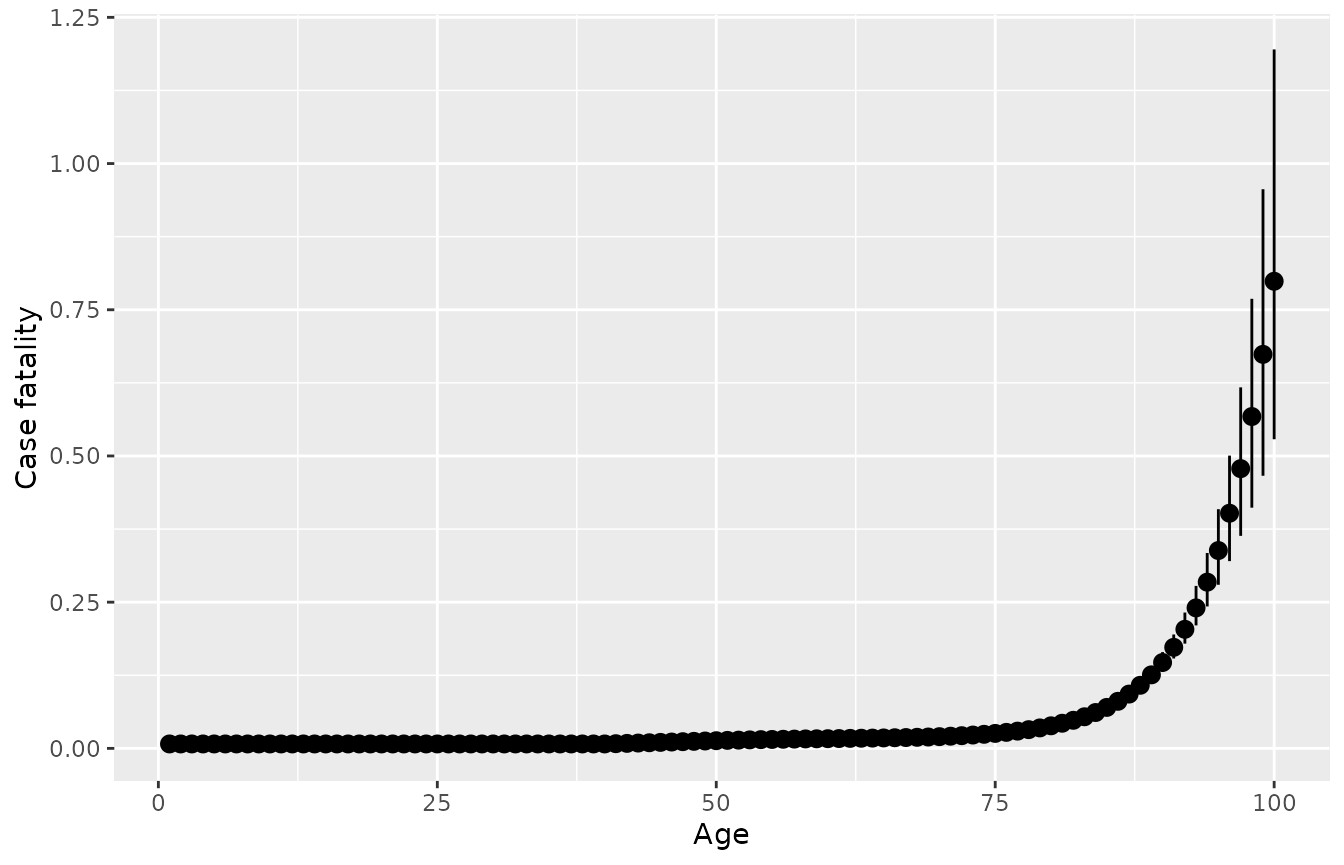
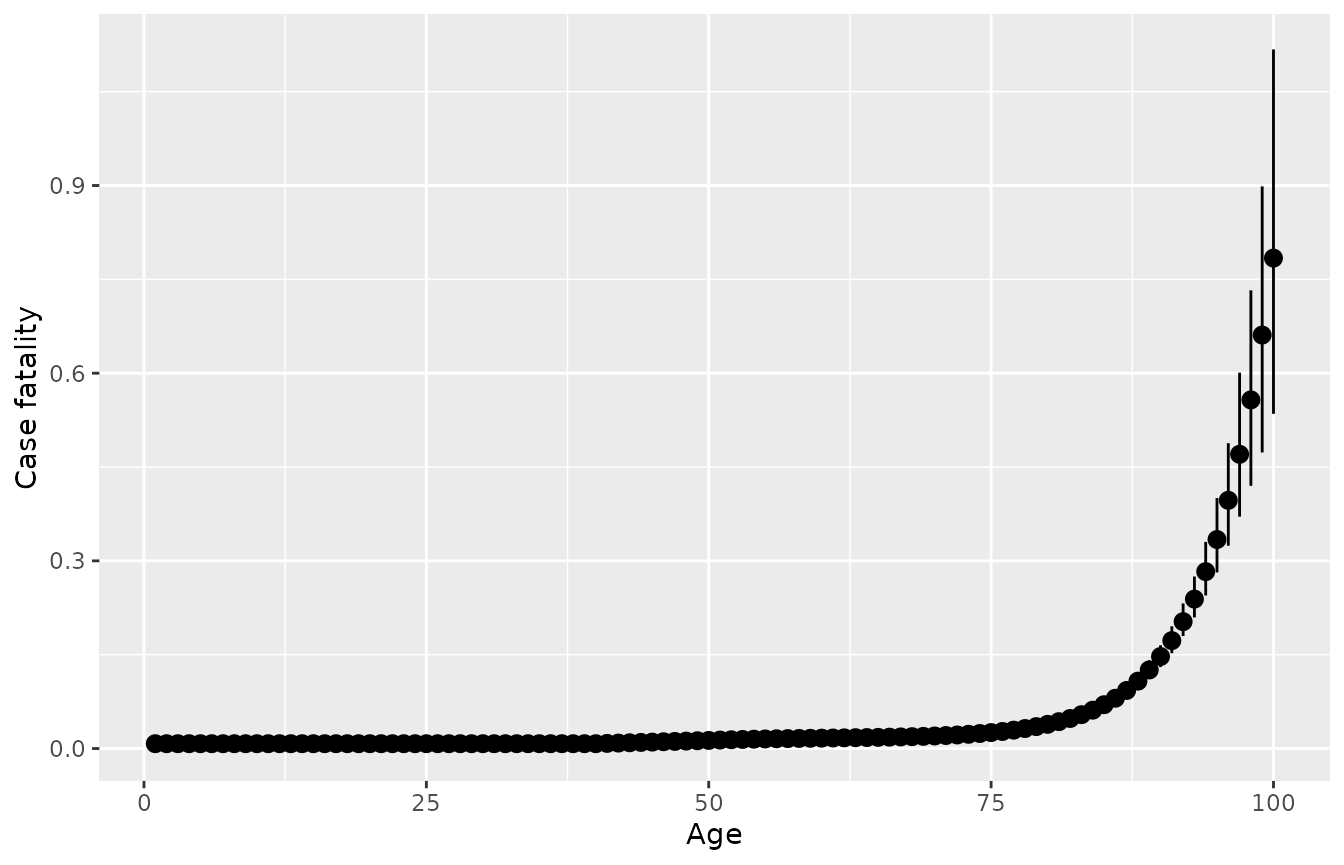
Built site for disbayes: 0.1@cc4fb94

diff --git a/articles/disbayes.html b/articles/disbayes.html
@@ -325,12 +325,12 @@
   <span class="fu"><a href="https://dplyr.tidyverse.org/reference/filter.html">filter</a></span><span class="op">(</span><span class="va">var</span><span class="op">==</span><span class="st">"cf"</span>, <span class="fu"><a href="https://dplyr.tidyverse.org/reference/between.html">between</a></span><span class="op">(</span><span class="va">age</span>,<span class="fl">60</span>,<span class="fl">65</span><span class="op">)</span><span class="op">)</span> <span class="op">%&gt;%</span>
   <span class="fu"><a href="https://dplyr.tidyverse.org/reference/select.html">select</a></span><span class="op">(</span><span class="va">age</span>, <span class="va">`25%`</span>, <span class="va">`50%`</span>, <span class="va">`75%`</span><span class="op">)</span></code></pre></div>
 <pre><code>##   age        25%        50%        75%
-## 1  60 0.01548314 0.01656903 0.01787346
-## 2  61 0.01574451 0.01680521 0.01804464
-## 3  62 0.01593381 0.01708668 0.01823168
-## 4  63 0.01620932 0.01735211 0.01841675
-## 5  64 0.01646907 0.01758232 0.01863940
-## 6  65 0.01676678 0.01784755 0.01887540</code></pre>
+## 1  60 0.01561818 0.01663821 0.01790771
+## 2  61 0.01586647 0.01689829 0.01807485
+## 3  62 0.01603928 0.01713634 0.01824569
+## 4  63 0.01626581 0.01739485 0.01848418
+## 5  64 0.01652922 0.01761160 0.01870253
+## 6  65 0.01689546 0.01788921 0.01895457</code></pre>
 <p>The default <code>plot</code> method for objects returned by <code>disbayes</code> plots the posterior summaries for case fatality, allowing a quick check of the model results. Or do <code><a href="https://rdrr.io/r/graphics/plot.default.html">plot(..., variable="inc")</a></code> for incidence. The function returns a <code>ggplot2</code> object that can be modified with <code>ggplot2</code> functions, e.g. to add axis labels.</p>
 <div class="sourceCode" id="cb17"><pre class="downlit sourceCode r">
 <code class="sourceCode R"><span class="kw"><a href="https://rdrr.io/r/base/library.html">library</a></span><span class="op">(</span><span class="va"><a href="https://ggplot2.tidyverse.org">ggplot2</a></span><span class="op">)</span>
